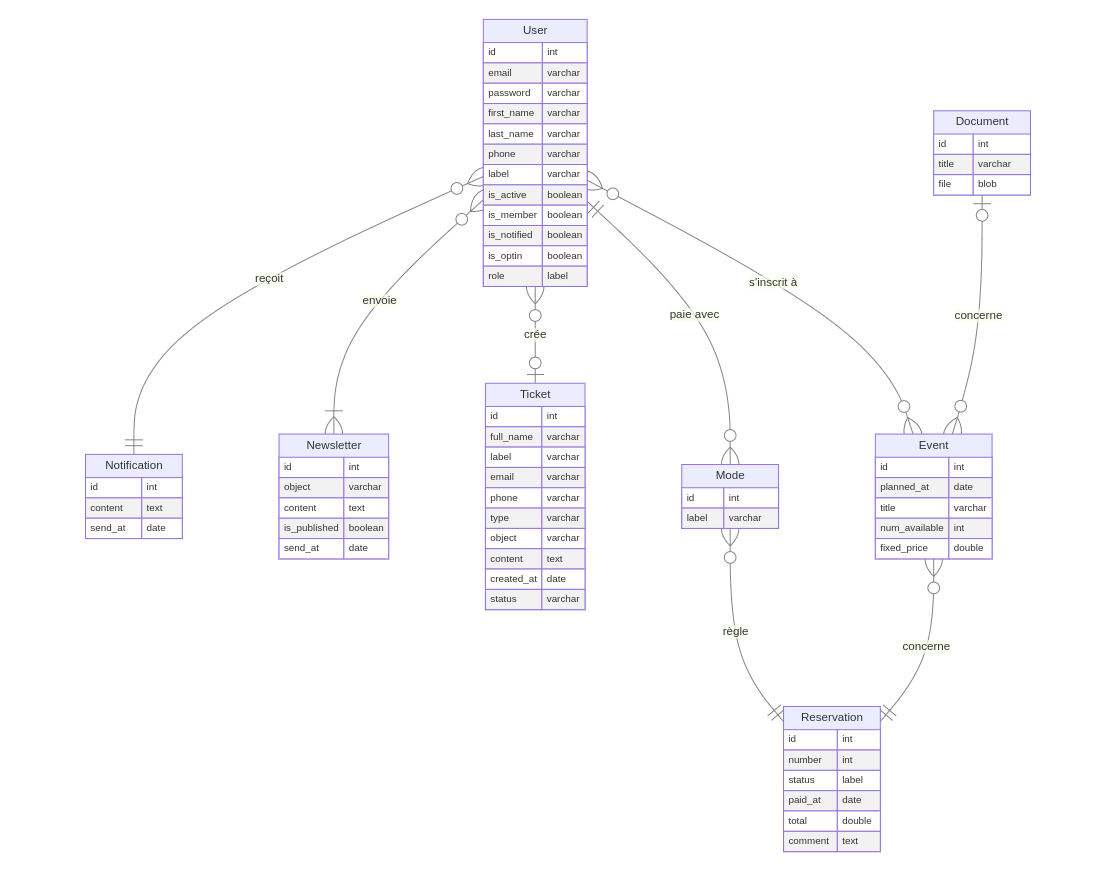
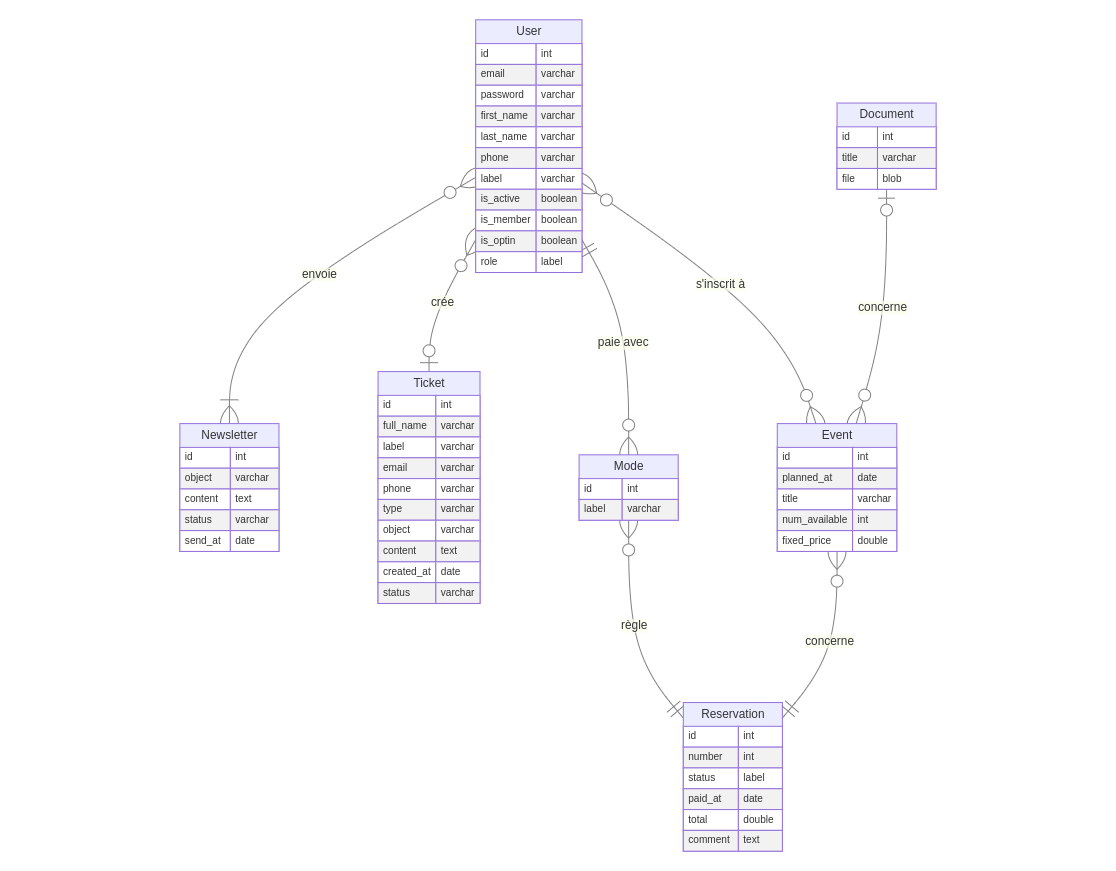
MAJ Nv Description BDD

diff --git a/docs/Realisation.md b/docs/Realisation.md
@@ -19,14 +19,30 @@
 |**is_optin**|l'exposant est inscrit à la newsletter de l'association|booléen|"non" par défaut|
 |**role**|le rôle de l'utilisateur ("Exposant", "Trésorier", "Administrateur")|chaîne (20)|"Exposant" par défaut|
 
-**Message - Les messages**
+**Newsletter - Les newsletters**
 
 |||||
 |-|-|-|-|
-|**id**|l'identifiant du message|entier|clé primaire|
-|**object**|objet du message|chaîne (255)|requis|
-|**content**|contenu textuel du message|texte|requis|
-|**is_newsletter**|envoi groupé ou newsletter|booléen|"non" par défaut|
+|**id**|l'identifiant de la newsletter|entier|clé primaire|
+|**object**|le titre de la newsletter|chaîne (255)|requis|
+|**content**|le contenu de la newsletter|texte|requis|
+|**status**|le statut de publication de la newsletter ("Brouillon", "Envoyé")|chaîne (15)|"Brouillon" par défaut|
+|**send_at**|la date d'envoi de la newsletter|date|déterminé lors de l'envoi|
+
+**Ticket - Les tickets**
+
+|||||
+|-|-|-|-|
+|**id**|l'identifiant du ticket|entier|clé primaire|
+|full_name|le nom complet (prénom et nom de famille) de l'auteur du ticket|chaîne (100)|requis, indiqué si l'utilisateur est connecté|
+|label|le libellé de l'auteur du ticket|chaîne (255)|optionnel, indiqué si l'utilisateur est connecté|
+|email|l'adresse e-mail de l'auteur du ticket|chaîne (100)|optionnel, indiqué si l'utilisateur est connecté|
+|phone|le numéro de téléphone de l'auteur du ticket|chaîne (20)|optionnel, indiqué si l'utilisateur est connecté|
+|type|le type de ticket ("Question", "Suggestion")|chaîne (15)|"Question" par défaut|
+|object|le titre du ticket|chaîne (255)|requis|
+|content|le contenu textuel du ticket|texte|requis|
+|created_at|la date de création du ticket|date|déterminé lors de la création|
+|status|le status du ticket ("Demande", "Résolu")|chaîne (10)|"Demande" par défaut|
 
 **Mode - Les modes de paiement**
 
@@ -68,11 +84,17 @@
 
 ### Les cardinalités
 
-**User (0,n) - Message (1,n)**
+**User (0,n) - Newsletter (1,n)**
 
-Un utilisateur peut envoyer plusieurs messages à un autre utilisateur. (0,n)
+Un utilisateur peut envoyer plusieurs newsletters. (0,n)
 
-Un message est reçu par au moins un utilisateur. (1,n)
+Une newsletter est envoyée à au moins un utilisateur. (1,n)
+
+**User (0,n) - Ticket (0,1)**
+
+Un utilisateur peut créer plusieurs tickets. (0,n)
+
+Un ticket peut être lié à un utilisateur inscrit. (0,1)
 
 **User (1,1) - Mode (0,n)**
 
